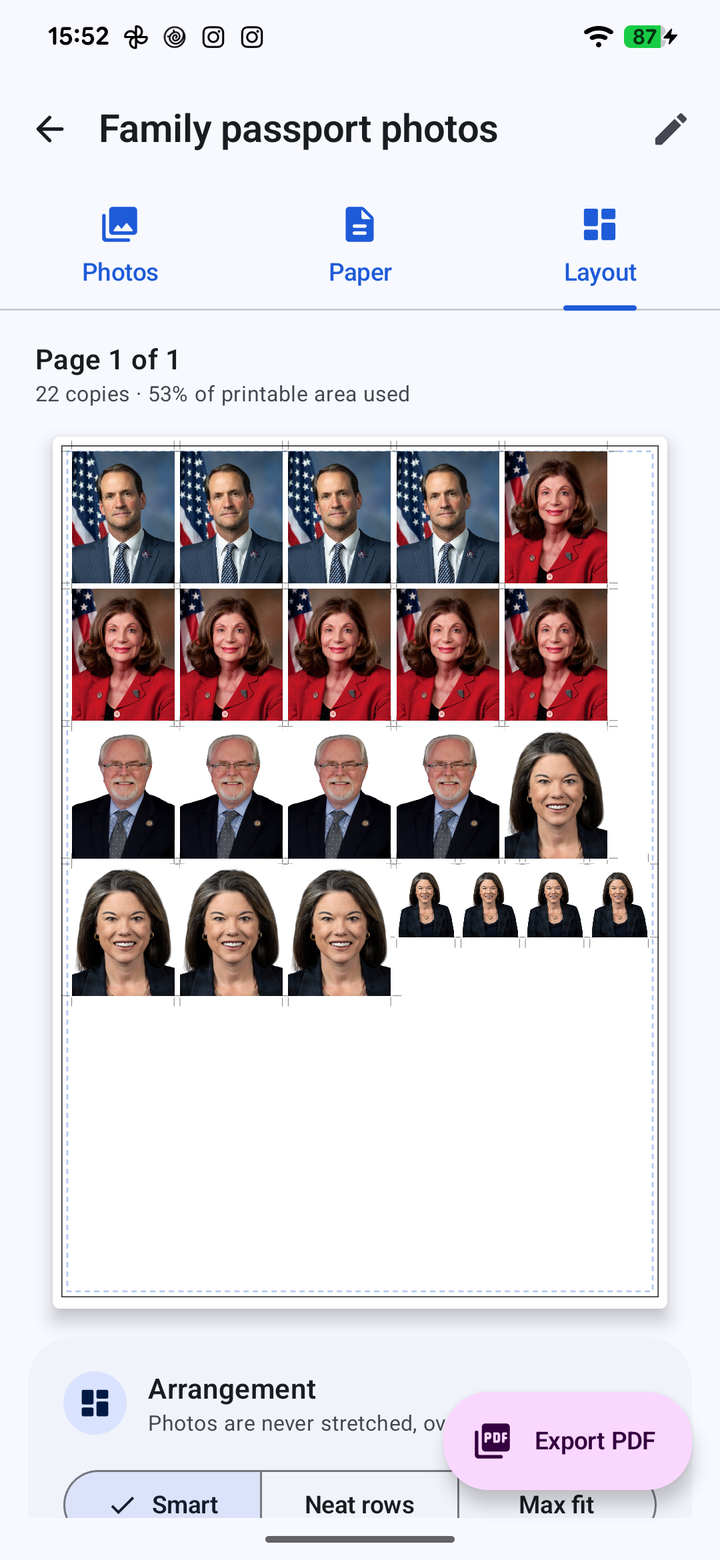
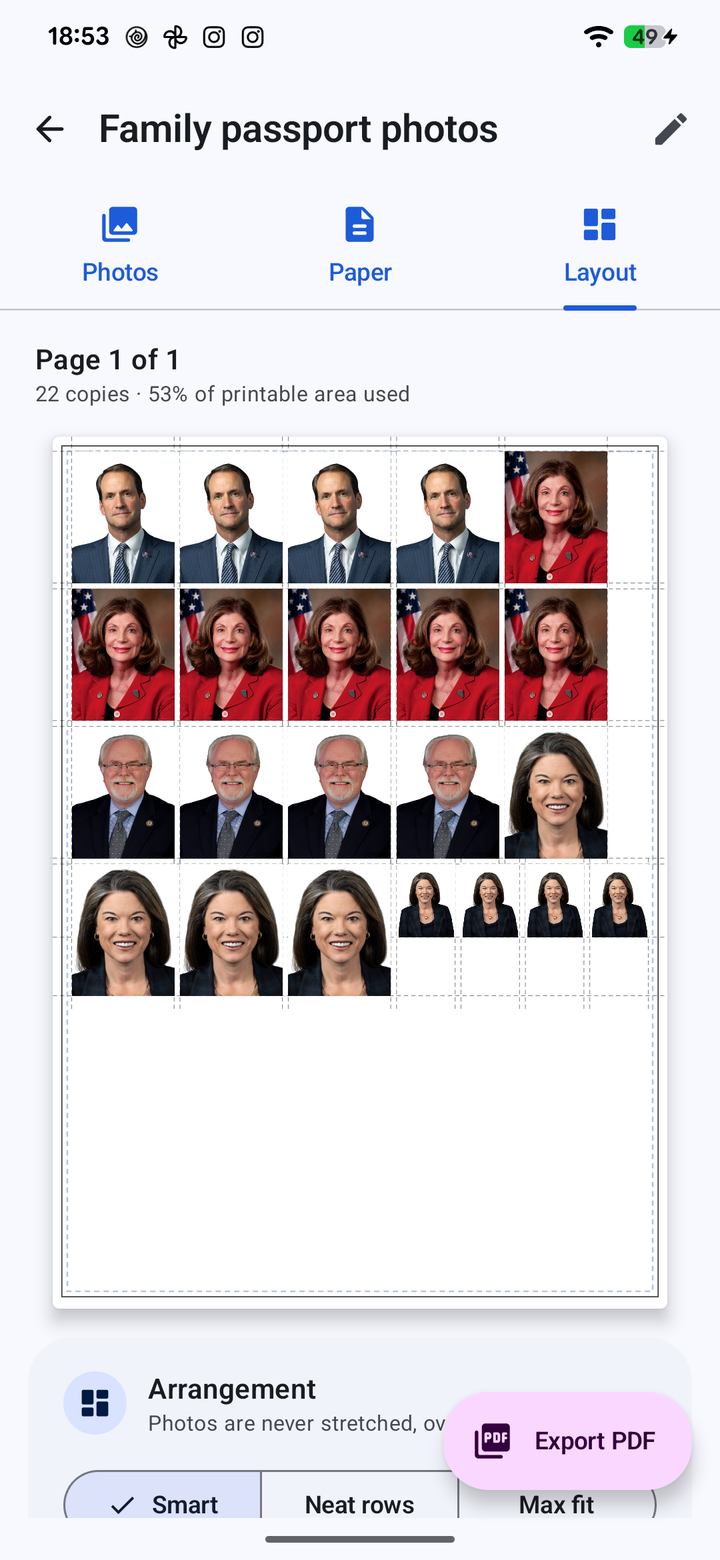
Add cutting lines for easy trimming
New default cutting guide: dashed lines along every photo edge. Long lines cross the sheet to split it into strips; short lines cut each strip into photos and stop below the last row. Guides can use any of several colours. Includes unit and device tests and updated screenshots.

diff --git a/app/src/test/java/io/github/riyadmondol2006/idsheetstudio/domain/TrimLinesTest.kt b/app/src/test/java/io/github/riyadmondol2006/idsheetstudio/domain/TrimLinesTest.kt
@@ -1,0 +1,104 @@
+package io.github.riyadmondol2006.idsheetstudio.domain
+
+import io.github.riyadmondol2006.idsheetstudio.core.Margins
+import io.github.riyadmondol2006.idsheetstudio.core.SizeMm
+import io.github.riyadmondol2006.idsheetstudio.domain.layout.LayoutEngine
+import io.github.riyadmondol2006.idsheetstudio.domain.layout.LayoutItem
+import io.github.riyadmondol2006.idsheetstudio.domain.layout.SheetComposer
+import io.github.riyadmondol2006.idsheetstudio.domain.layout.SheetOp
+import io.github.riyadmondol2006.idsheetstudio.domain.model.CutGuides
+import io.github.riyadmondol2006.idsheetstudio.domain.model.HorizontalAlign
+import io.github.riyadmondol2006.idsheetstudio.domain.model.LayoutStrategy
+import io.github.riyadmondol2006.idsheetstudio.domain.model.LineStyle
+import io.github.riyadmondol2006.idsheetstudio.domain.model.SheetSettings
+import io.github.riyadmondol2006.idsheetstudio.pdf.PdfInspector
+import io.github.riyadmondol2006.idsheetstudio.pdf.PdfWriter
+import io.github.riyadmondol2006.idsheetstudio.pdf.SheetPdfEncoder
+import kotlinx.serialization.json.Json
+import org.junit.Assert.assertEquals
+import org.junit.Assert.assertTrue
+import org.junit.Test
+import java.io.ByteArrayOutputStream
+
+class TrimLinesTest {
+    private fun copies(size: SizeMm, n: Int) = (0 until n).map { LayoutItem("p#$it", "p", 0, it, size) }
+
+    private fun page(spacing: Double, n: Int = 4, settings: SheetSettings = SheetSettings()) = run {
+        val s = settings.copy(spacingMm = spacing, cutGuides = CutGuides.TRIM_LINES, strategy = LayoutStrategy.ROWS, horizontalAlign = HorizontalAlign.START)
+        // A 2-column printable area so 4 copies form a 2 x 2 grid.
+        val pageSize = SizeMm(10.0 + 35 * 2 + spacing, 297.0)
+        val layout = LayoutEngine.layout(copies(SizeMm(35.0, 45.0), n), pageSize, Margins.all(5.0), spacing, LayoutStrategy.ROWS, false)
+        Triple(layout, SheetComposer.composePage(0, pageSize, layout.placementsOn(0), s), pageSize)
+    }
+
+    @Test fun horizontalCutsSpanThePageAndVerticalCutsStayInTheirStrip() {
+        val (_, sheet, size) = page(spacing = 3.0)
+        val lines = sheet.ops.filterIsInstance<SheetOp.Line>()
+        val vertical = lines.filter { it.x1 == it.x2 }
+        val horizontal = lines.filter { it.y1 == it.y2 }
+        // Columns at x = 5..40 and 43..78; rows at y = 5..50 and 53..98.
+        assertEquals(listOf(5.0, 50.0, 53.0, 98.0), horizontal.map { it.y1 })
+        assertTrue(horizontal.all { it.x1 == 0.0 && it.x2 == size.width })
+        // Row 1 strip: from the paper's top edge to the first cut below it (row 2 top).
+        val row1 = vertical.filter { it.y1 == 0.0 }
+        assertEquals(listOf(5.0, 40.0, 43.0, 78.0), row1.map { it.x1 })
+        assertTrue(row1.all { it.y2 == 53.0 })
+        // Row 2 strip: from the cut above it (row 1 bottom) to 5 mm below the last row.
+        val row2 = vertical.filter { it.y1 == 50.0 }
+        assertEquals(4, row2.size)
+        assertTrue(row2.all { it.y2 == 98.0 + SheetComposer.TRIM_TAIL_MM })
+        // Nothing in the empty lower part of the page.
+        assertTrue(lines.none { it.x1 == it.x2 && it.y2 > 98.0 + SheetComposer.TRIM_TAIL_MM + 1e-9 })
+        assertTrue(lines.all { it.stroke.style == LineStyle.DASHED })
+    }
+
+    @Test fun everyPhotoEdgeIsCovered() {
+        // Mixed sizes in one row (passport + stamps): each edge of each photo lies on a line.
+        val items = copies(SizeMm(35.0, 45.0), 3) + (0 until 4).map { LayoutItem("s#$it", "s", 1, it, SizeMm(20.0, 25.0)) }
+        val layout = LayoutEngine.layout(items, SizeMm(210.0, 297.0), Margins.all(5.0), 2.0, LayoutStrategy.ROWS, false)
+        val lines = SheetComposer.compose(layout, SheetSettings(cutGuides = CutGuides.TRIM_LINES)).single().ops.filterIsInstance<SheetOp.Line>()
+        for (p in layout.placements) {
+            val r = p.rect
+            fun onV(x: Double) = lines.any { it.x1 == x && it.x2 == x && it.y1 <= r.y + 1e-9 && it.y2 >= r.bottom - 1e-9 }
+            fun onH(y: Double) = lines.any { it.y1 == y && it.y2 == y && it.x1 <= r.x + 1e-9 && it.x2 >= r.right - 1e-9 }
+            assertTrue("${p.key} edges", onV(r.x) && onV(r.right) && onH(r.y) && onH(r.bottom))
+        }
+    }
+
+    @Test fun sharedEdgesAreMergedWithoutSpacing() {
+        val (_, sheet, _) = page(spacing = 0.0)
+        val lines = sheet.ops.filterIsInstance<SheetOp.Line>()
+        assertEquals(3 * 2, lines.count { it.x1 == it.x2 }) // 3 shared x-edges in each of the 2 rows
+        assertEquals(3, lines.count { it.y1 == it.y2 })
+    }
+
+    @Test fun linesAreDrawnUnderneathThePhotos() {
+        val (_, sheet, _) = page(spacing = 2.0)
+        val firstImage = sheet.ops.indexOfFirst { it is SheetOp.Image }
+        val lastLine = sheet.ops.indexOfLast { it is SheetOp.Line }
+        assertTrue("lines must come before images", lastLine < firstImage)
+    }
+
+    @Test fun guideColourIsUsedAndReachesThePdf() {
+        val (layout, sheet, _) = page(spacing = 2.0, settings = SheetSettings(guideColor = 0xFFE53935))
+        assertTrue(sheet.ops.filterIsInstance<SheetOp.Line>().all { it.stroke.color == 0xFFE53935 })
+        val out = ByteArrayOutputStream()
+        PdfWriter(out, compressContent = false).use { w ->
+            val ref = w.addJpegImage(10, 10, byteArrayOf(1))
+            SheetPdfEncoder.writePage(w, sheet, mapOf("p" to ref))
+        }
+        val content = PdfInspector.inspect(out.toByteArray()).pages.single().content
+        assertEquals(4 + 8, Regex(" l S").findAll(content).count())
+        assertTrue(content.contains("0.898 0.2235 0.2078 RG"))
+        assertTrue(Regex("""\[[\d.]+ [\d.]+] 0 d""").containsMatchIn(content))
+        assertEquals(4, layout.placements.size)
+    }
+
+    @Test fun newSheetsDefaultToCuttingLinesAndOldSheetsKeepTheirChoice() {
+        assertEquals(CutGuides.TRIM_LINES, SheetSettings().cutGuides)
+        val json = Json { ignoreUnknownKeys = true }
+        val old = json.decodeFromString(SheetSettings.serializer(), """{"cutGuides":"CROP_MARKS"}""")
+        assertEquals(CutGuides.CROP_MARKS, old.cutGuides)
+        assertEquals(0xFF7A7A7A, old.guideColor)
+    }
+}

diff --git a/app/src/main/java/io/github/riyadmondol2006/idsheetstudio/domain/layout/SheetComposer.kt b/app/src/main/java/io/github/riyadmondol2006/idsheetstudio/domain/layout/SheetComposer.kt
@@ -42,8 +42,7 @@ object SheetComposer {
     const val CROP_MARK_LENGTH_MM = 3.0
     const val CROP_MARK_OFFSET_MM = 0.6
     const val GUIDE_WIDTH_MM = 0.15
-    const val GUIDE_COLOR = 0xFF7A7A7AL
-    const val OUTLINE_COLOR = 0xFFA0A0A0L
+    const val TRIM_TAIL_MM = 5.0
 
     fun compose(layout: LayoutResult, settings: SheetSettings): List<SheetPage> =
         (0 until layout.pageCount).map { page ->
@@ -54,10 +53,13 @@ object SheetComposer {
         val ops = mutableListOf<SheetOp>()
         val page = RectMm(0.0, 0.0, pageSize.width, pageSize.height)
 
-        // Crop marks go underneath the photos so they never cover image content.
+        // Guides go underneath the photos so they never cover image content.
         if (settings.cutGuides == CutGuides.CROP_MARKS) {
-            val stroke = Stroke(GUIDE_WIDTH_MM, GUIDE_COLOR, LineStyle.SOLID)
+            val stroke = Stroke(GUIDE_WIDTH_MM, settings.guideColor, LineStyle.SOLID)
             placements.forEach { ops += cropMarks(it.rect, page, stroke) }
+        }
+        if (settings.cutGuides == CutGuides.TRIM_LINES) {
+            ops += trimLines(placements, page, Stroke(GUIDE_WIDTH_MM, settings.guideColor, LineStyle.DASHED))
         }
 
         placements.forEach { ops += SheetOp.Image(it.photoId, it.key, it.rect, it.rotated) }
@@ -67,7 +69,7 @@ object SheetComposer {
         }
 
         if (settings.cutGuides == CutGuides.OUTLINES) {
-            val stroke = Stroke(GUIDE_WIDTH_MM, OUTLINE_COLOR, LineStyle.DASHED)
+            val stroke = Stroke(GUIDE_WIDTH_MM, settings.guideColor, LineStyle.DASHED)
             placements.forEach { ops += SheetOp.StrokeRect(it.rect, stroke) }
         }
 
@@ -84,6 +86,48 @@ object SheetComposer {
         val centre = bounds.inset(border.insetMm.coerceAtLeast(0.0) + width / 2)
         if (centre.width <= 0.0 || centre.height <= 0.0) return null
         return SheetOp.StrokeRect(centre, Stroke(width, border.color, border.style))
+    }
+
+    /**
+     * Cutting lines for straight cuts with a ruler, scissors or a trimmer, drawn below the photos
+     * so they only show in the gaps and margins:
+     * - every distinct top/bottom photo edge gets a horizontal line across the full page width
+     *   (the first cuts, which split the sheet into strips);
+     * - within each strip (a band of photos that overlap vertically), every left/right photo edge
+     *   gets a vertical line from the cut above the strip to the cut below it, so lines don't
+     *   clutter empty parts of the page. The last strip's lines end [TRIM_TAIL_MM] below it.
+     */
+    fun trimLines(placements: List<Placement>, page: RectMm, stroke: Stroke): List<SheetOp.Line> {
+        if (placements.isEmpty()) return emptyList()
+        fun distinct(values: List<Double>) = values.sorted().fold(mutableListOf<Double>()) { acc, v ->
+            if (acc.isEmpty() || v - acc.last() > 1e-6) acc += v
+            acc
+        }
+        val horizontal = distinct(placements.flatMap { listOf(it.rect.y, it.rect.bottom) })
+            .map { SheetOp.Line(page.x, it, page.right, it, stroke) }
+
+        // Strips: union of the photos' vertical extents.
+        val bands = mutableListOf<MutableList<Placement>>()
+        var bandBottom = Double.NEGATIVE_INFINITY
+        for (p in placements.sortedBy { it.rect.y }) {
+            if (bands.isEmpty() || p.rect.y >= bandBottom - 1e-6) {
+                bands += mutableListOf(p)
+                bandBottom = p.rect.bottom
+            } else {
+                bands.last() += p
+                bandBottom = maxOf(bandBottom, p.rect.bottom)
+            }
+        }
+        val vertical = bands.flatMapIndexed { index, band ->
+            val top = band.minOf { it.rect.y }
+            val bottom = band.maxOf { it.rect.bottom }
+            val from = if (index == 0) page.y else bands[index - 1].maxOf { it.rect.bottom }
+            val to = if (index == bands.lastIndex) minOf(page.bottom, bottom + TRIM_TAIL_MM) else bands[index + 1].minOf { it.rect.y }
+            distinct(band.flatMap { listOf(it.rect.x, it.rect.right) }).map { x ->
+                SheetOp.Line(x, minOf(from, top), x, maxOf(to, bottom), stroke)
+            }
+        }
+        return horizontal + vertical
     }
 
     private fun cropMarks(r: RectMm, page: RectMm, stroke: Stroke): List<SheetOp.Line> {

diff --git a/app/src/main/java/io/github/riyadmondol2006/idsheetstudio/ui/project/PaperTab.kt b/app/src/main/java/io/github/riyadmondol2006/idsheetstudio/ui/project/PaperTab.kt
@@ -127,13 +127,31 @@ fun PaperTab(settings: SheetSettings, onChange: ((SheetSettings) -> SheetSetting
             }
         }
 
-        SectionCard("Cutting guides", icon = Icons.Rounded.ContentCut, subtitle = "Help trim photos precisely") {
-            SegmentedChoice(
-                CutGuides.entries,
-                settings.cutGuides,
-                { g -> onChange { it.copy(cutGuides = g) } },
-                { when (it) { CutGuides.NONE -> "None"; CutGuides.CROP_MARKS -> "Crop marks"; CutGuides.OUTLINES -> "Cut lines" } },
+        SectionCard("Cutting guides", icon = Icons.Rounded.ContentCut, subtitle = "Lines that make trimming quick and exact") {
+            FlowRow(horizontalArrangement = Arrangement.spacedBy(8.dp)) {
+                listOf(CutGuides.TRIM_LINES, CutGuides.CROP_MARKS, CutGuides.OUTLINES, CutGuides.NONE).forEach { g ->
+                    FilterChip(
+                        selected = settings.cutGuides == g,
+                        onClick = { onChange { it.copy(cutGuides = g) } },
+                        label = { Text(cutGuideLabel(g)) },
+                        modifier = Modifier.testTag("guides_${g.name.lowercase()}"),
+                    )
+                }
+            }
+            Text(
+                when (settings.cutGuides) {
+                    CutGuides.TRIM_LINES -> "Dashed lines along every photo edge. Cut along the long lines first to make strips, then cut each strip into photos. Works best with \"Neat rows\" in the Layout tab."
+                    CutGuides.CROP_MARKS -> "Short marks just outside each photo corner, like a print shop."
+                    CutGuides.OUTLINES -> "A thin dashed border exactly on the edge of each photo."
+                    CutGuides.NONE -> "No guides are printed."
+                },
+                style = MaterialTheme.typography.bodySmall,
+                color = MaterialTheme.colorScheme.onSurfaceVariant,
             )
+            Expandable(settings.cutGuides != CutGuides.NONE) {
+                Text("Guide colour", style = MaterialTheme.typography.labelLarge)
+                ColorSwatches(GuideSwatches, settings.guideColor, { c -> onChange { it.copy(guideColor = c) } })
+            }
         }
     }
 }
@@ -153,3 +171,12 @@ private fun BorderEditor(border: BorderSettings, unit: LengthUnit, insetLabel: S
     )
     ColorSwatches(SwatchColors, border.color, { onChange(border.copy(color = it)) })
 }
+
+private fun cutGuideLabel(g: CutGuides) = when (g) {
+    CutGuides.TRIM_LINES -> "Cutting lines"
+    CutGuides.CROP_MARKS -> "Crop marks"
+    CutGuides.OUTLINES -> "Outlines"
+    CutGuides.NONE -> "None"
+}
+
+private val GuideSwatches = listOf(0xFF7A7A7AL, 0xFFBDBDBDL, 0xFF000000L, 0xFF1E5BD8L, 0xFFE53935L)

diff --git a/app/src/androidTest/java/io/github/riyadmondol2006/idsheetstudio/NewFeaturesTest.kt b/app/src/androidTest/java/io/github/riyadmondol2006/idsheetstudio/NewFeaturesTest.kt
@@ -127,4 +127,22 @@ class NewFeaturesTest {
         assertEquals(4, result.copies)
         assertTrue(result.verification.maxErrorMm < 0.001)
     }
+
+    @Test fun cuttingLinesAreSelectableAndPrinted() {
+        compose.waitUntilAtLeastOneExists(hasText("New features sheet"), 20_000)
+        compose.onNodeWithText("New features sheet").performClick()
+        compose.waitUntilAtLeastOneExists(hasTestTag("tab_paper"), 20_000)
+        compose.onNodeWithTag("tab_paper").performClick()
+        compose.waitUntilAtLeastOneExists(hasTestTag("guides_crop_marks"), 20_000)
+        compose.onNodeWithTag("guides_crop_marks").performScrollTo().performClick()
+        compose.onNodeWithTag("guides_trim_lines").performScrollTo().performClick()
+        compose.waitUntil(10_000) {
+            runBlocking { container.projects.getProject(projectId)!!.settings.cutGuides } == io.github.riyadmondol2006.idsheetstudio.domain.model.CutGuides.TRIM_LINES
+        }
+        val result = runBlocking { container.exporter.export(container.projects.getProject(projectId)!!, 300) }
+        val page = io.github.riyadmondol2006.idsheetstudio.pdf.PdfInspector.inspect(result.file.readBytes()).pages.single()
+        // 4 passport copies in one row: 2 horizontal cuts + 8 vertical edges... at least one line per photo edge.
+        assertTrue("expected cutting lines in the PDF", Regex(" l S").findAll(page.content).count() >= 2 + 2 * 4)
+        assertTrue(result.verification.maxErrorMm < 0.001)
+    }
 }

diff --git a/app/src/main/java/io/github/riyadmondol2006/idsheetstudio/domain/model/SheetSettings.kt b/app/src/main/java/io/github/riyadmondol2006/idsheetstudio/domain/model/SheetSettings.kt
@@ -12,7 +12,15 @@ enum class Orientation { PORTRAIT, LANDSCAPE }
 enum class LineStyle { SOLID, DASHED, DOTTED }
 
 @Serializable
-enum class CutGuides { NONE, CROP_MARKS, OUTLINES }
+enum class CutGuides {
+    NONE,
+    /** Short marks at each photo corner. */
+    CROP_MARKS,
+    /** A thin dashed outline around each photo. */
+    OUTLINES,
+    /** Full-length lines across the page along every photo edge, for straight cuts. */
+    TRIM_LINES,
+}
 
 @Serializable
 enum class LayoutStrategy { AUTO, ROWS, DENSE }
@@ -50,7 +58,9 @@ data class SheetSettings(
     val spacingMm: Double = 2.0,
     val pageBorder: BorderSettings = BorderSettings(insetMm = 3.0),
     val photoBorder: BorderSettings = BorderSettings(thicknessMm = 0.2, color = 0xFF9E9E9E),
-    val cutGuides: CutGuides = CutGuides.CROP_MARKS,
+    val cutGuides: CutGuides = CutGuides.TRIM_LINES,
+    /** Colour of crop marks, outlines and cutting lines. */
+    val guideColor: Long = 0xFF7A7A7A,
     val strategy: LayoutStrategy = LayoutStrategy.AUTO,
     val allowRotation: Boolean = false,
     /** Horizontal position of each page's content block. START is the left edge of the paper. */

diff --git a/README.md b/README.md
@@ -75,7 +75,8 @@ Remove backgrounds, crop to official sizes and print passport, visa, ID and stam
 - **Auto-align** the photos on each page: left, centre or right; top, middle or bottom; or
   **spread evenly** with equal gaps.
 - **Drag photos by hand** (long-press on the page); invalid moves are rejected.
-- **Crop marks** or **cut lines** for precise trimming.
+- **Cutting lines** for easy, exact trimming: long lines across the sheet split it into strips,
+  short lines cut each strip into photos (or choose crop marks or outlines), in any colour.
 
 ### 🖨 Print-ready PDF
 - Multi-page PDF with **exact fractional page sizes** (A4 is 595.276 × 841.890 pt, not rounded)

diff --git a/CHANGELOG.md b/CHANGELOG.md
@@ -7,6 +7,10 @@ matches a pushed tag as that release's notes.
 
 ## [Unreleased]
 
+### Added
+- Cutting lines: dashed lines along every photo edge for straight cuts with a ruler, scissors
+  or a trimmer (the new default for new sheets), plus a colour choice for all cutting guides.
+
 ## [1.0.0] - 2026-10-29
 
 ### Added
